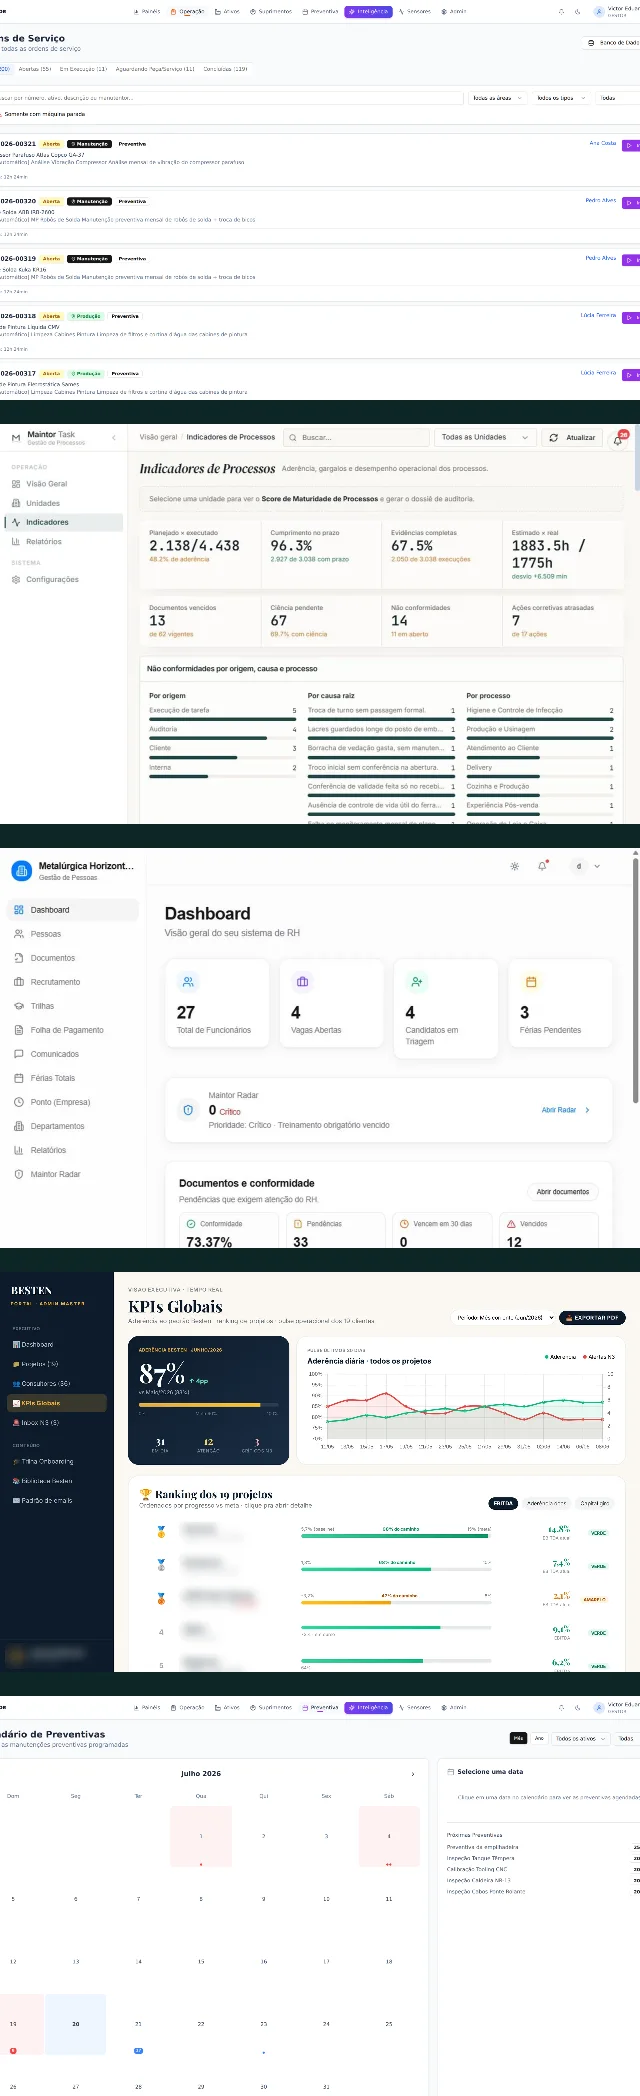
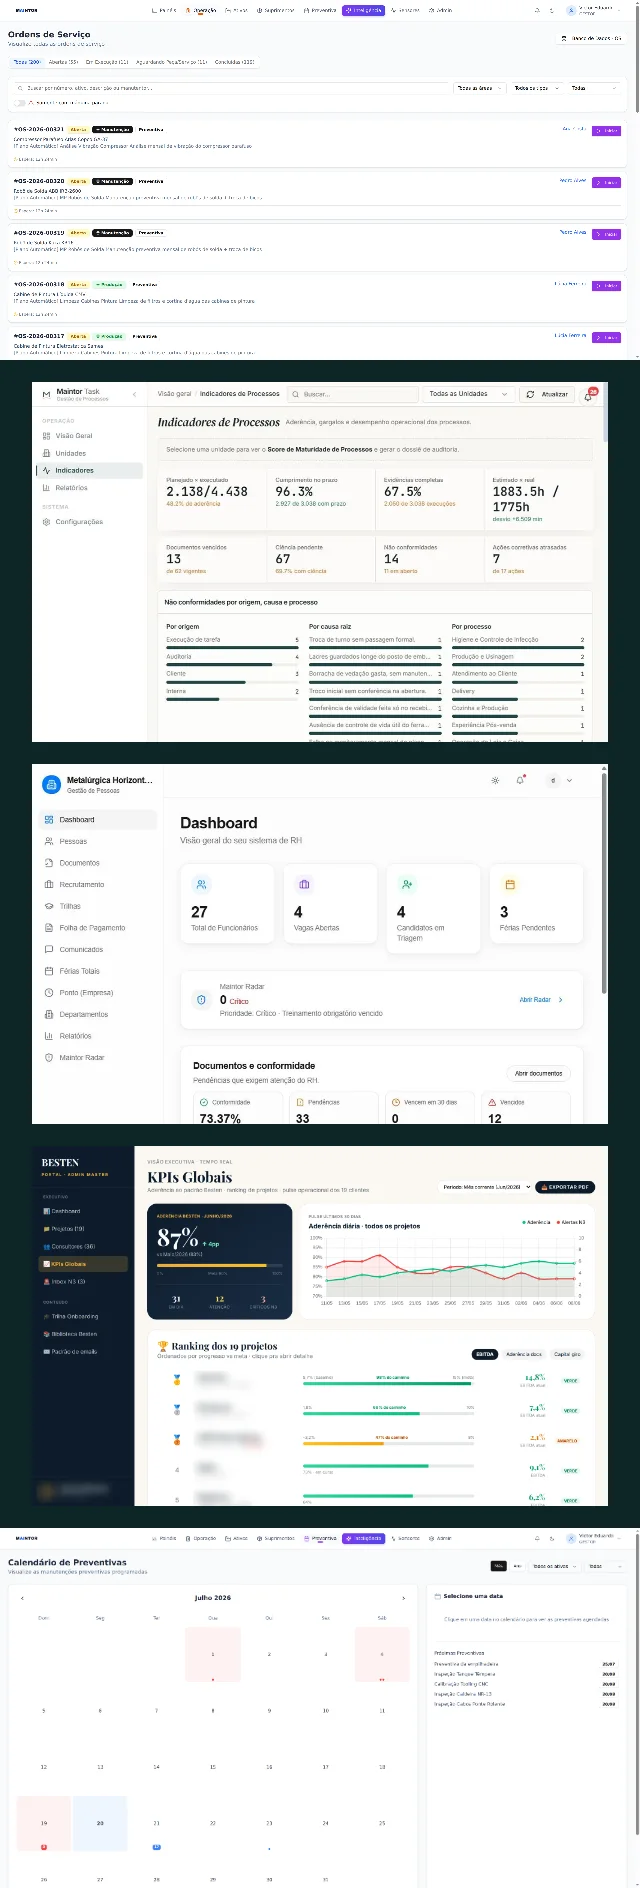
site: telas do CMMS sem corte lateral (porta 04 e Caminho 1)
As capturas do CMMS sao 16:9 e a pilha era montada em 1,6: perdia 5% de cada lado
("ns de Servico"). cmms-telas passa a 16:9; sistemas-telas (CMMS 16:9 + Task, RH e
Besten 1,6) passa a 16:9 com cada tela inteira (conter), faixa escura dos lados.

diff --git a/site/testes/entrega-telas-que-rolam-2026-11.md b/site/testes/entrega-telas-que-rolam-2026-11.md
@@ -91,6 +91,13 @@ As notas abaixo dos quadros trocaram "Imagem ilustrativa" por "Na tela, …", di
    Agora sobem no máximo até 84 px do topo. As curtas não mudaram de lugar. A produção atual tem esse defeito.
 2. **Quadro em pé estourando a altura.** Antes não havia quadro em pé. O do Caminho 2 passou a caber entre o cabeçalho e a barra do guia, com um limite de altura que só afeta quadros em pé.
 
+### Correção de 14/11, depois de publicado
+
+As telas do CMMS são 16:9. Montadas em 1,6, perdiam 5% de cada lado: "ns de Serviço" no lugar de "Ordens de Serviço".
+
+- **Porta 04:** a pilha agora é 16:9, sem corte.
+- **Caminho 1:** mistura CMMS (16:9) com Task, RH e Besten (1,6). Ficou em 16:9 com cada tela inteira e uma faixa escura fina dos lados, nas telas de 1,6.
+
 ## 5. Verificação
 
 Todos os aceites rodaram contra o build de produção (`npm run build`, com prerender):
